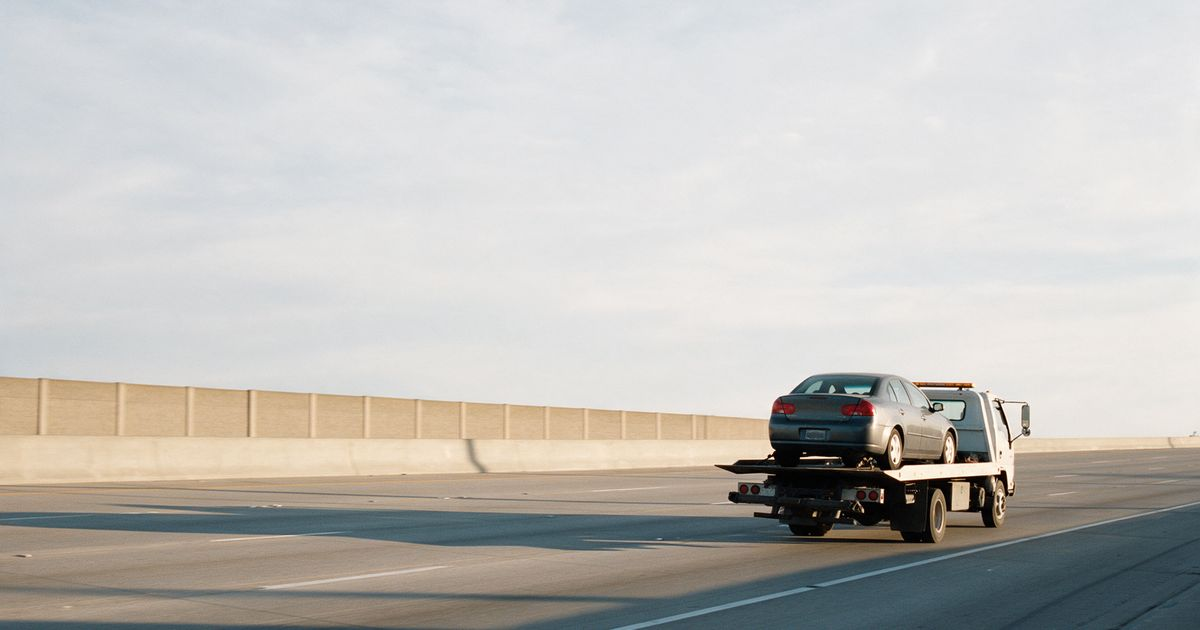
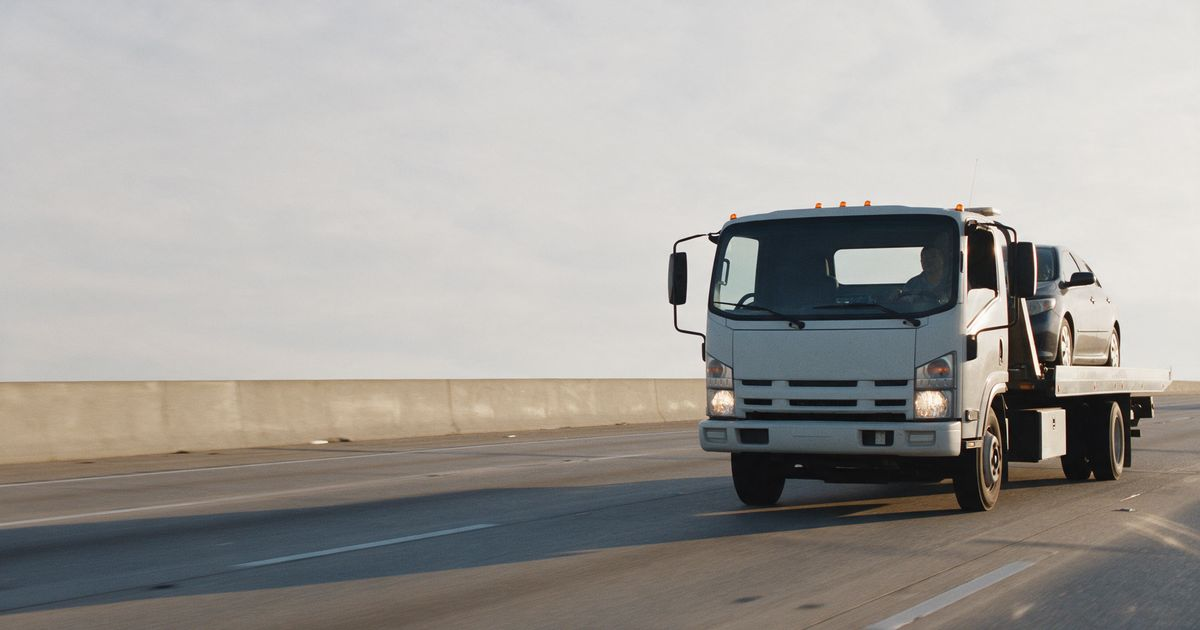
Первый экран: эвакуатор крупнее и едет на зрителя, ползунок едет от А к Б

diff --git a/index.html b/index.html
@@ -17,7 +17,8 @@
 <meta property="og:image:height" content="630">
 <meta name="twitter:card" content="summary_large_image">
 <meta name="theme-color" content="#f4f6f9">
-<link rel="preload" as="image" href="assets/road.webp" fetchpriority="high">
+<link rel="preload" as="image" href="assets/road.webp" media="(min-width: 861px)" fetchpriority="high">
+<link rel="preload" as="image" href="assets/road-m.webp" media="(max-width: 860px)" fetchpriority="high">
 <link rel="preconnect" href="https://fonts.googleapis.com">
 <link rel="preconnect" href="https://fonts.gstatic.com" crossorigin>
 <link href="https://fonts.googleapis.com/css2?family=Golos+Text:wght@600;700;800&family=IBM+Plex+Sans:wght@400;500;600&display=swap" rel="stylesheet">
@@ -76,8 +77,9 @@
   @media (max-width: 860px) { .bar.is-scrolled { background: rgb(244 246 249 / .96); } }
 
   /* ---- hero: одна дорога, оффер на небе, строка маршрута ------------------------ */
+  .hero__back picture { display: contents; }
   .hero__back img { left: 0; top: 0; width: 100%; height: 100%; object-fit: cover; object-position: 50% 50%;
-    transform: scale(calc(1 + var(--v-p, 0) * .06)); transform-origin: 72% 78%; }
+    transform: scale(calc(1 + var(--v-p, 0) * .06)); transform-origin: 72% 62%; }
   .hero__scrim { position: absolute; inset: 0; z-index: 2; pointer-events: none;
     background: radial-gradient(115% 90% at 0% 0%, rgb(244 246 249 / .94) 0%, rgb(244 246 249 / .66) 42%, transparent 72%); }
   .hero__copy { top: clamp(5rem, 13vh, 8.5rem); max-width: min(46rem, 86vw); }
@@ -91,8 +93,9 @@
     padding: var(--v-4) var(--v-5); border-radius: var(--v-radius); background: rgb(255 255 255 / .82); box-shadow: var(--v-e1); }
   .hero__note .v-nums { font-family: var(--v-font-display); font-weight: 700; font-size: var(--v-t-lg); letter-spacing: -.01em; }
   .hero__note .hero__int { color: var(--v-ink); font-size: var(--v-t-sm); }
+  @media (min-width: 861px) and (max-aspect-ratio: 3/2) { .hero__back img { object-position: 66% 50%; } }
   @media (max-width: 860px) {
-    .hero__back img { object-position: 88% 50%; }
+    .hero__back img { object-position: 46% 50%; transform: translateY(-3%) scale(calc(1.12 + var(--v-p, 0) * .06)); transform-origin: 46% 66%; }
     .hero__scrim { background: linear-gradient(to bottom, rgb(244 246 249 / .96) 0%, rgb(244 246 249 / .84) 44%, transparent 72%); }
     .hero__note { display: none; }
     .hero__copy { top: calc(clamp(4.5rem, 11vh, 6.5rem) + env(safe-area-inset-top, 0px)); left: var(--v-gutter); right: var(--v-gutter); max-width: none; }
@@ -238,7 +241,7 @@
     background: var(--v-canvas); color: var(--v-ink); box-shadow: inset 0 0 0 2px var(--v-ink); }
   .route__end--b { right: 0; background: var(--v-accent); color: var(--v-accent-ink); box-shadow: inset 0 0 0 2px var(--v-accent); }
   .route__track { position: absolute; left: 3.6rem; right: 3.6rem; top: 0; height: 100%; }
-  .mini { position: absolute; top: .2rem; left: calc(var(--v-p, 0) * (100% - 4.2rem)); width: 4.2rem; height: 2.4rem; }
+  .mini { position: absolute; top: .2rem; left: calc(var(--v-p, 0) * (100% - 4.2rem)); width: 4.2rem; height: 2.4rem; transform: scaleX(-1); /* кабина впереди, едет от А к Б */ }
   .mini__cab { position: absolute; left: 0; bottom: .5rem; width: 1.05rem; height: .95rem; border-radius: .4rem .1rem 0 .1rem; background: var(--v-surface); box-shadow: inset 0 0 0 2px var(--v-ink); }
   .mini__deck { position: absolute; left: 1.05rem; right: 0; bottom: .5rem; height: .26rem; background: var(--v-ink); }
   .mini__car { position: absolute; left: 1.4rem; right: .15rem; bottom: .76rem; height: .8rem; border-radius: .3rem .35rem .12rem .12rem; background: var(--v-surface); box-shadow: inset 0 0 0 2px var(--v-ink); }
@@ -353,7 +356,10 @@
     <section id="top" data-v-act="pin" data-v-span="2.2" data-v-drift="#f4f6f9" aria-label="Эвакуатор: цена и время подачи до выезда">
       <div data-v-stage>
         <div class="v-layer hero__back">
-          <img src="assets/road.webp" alt="" width="1920" height="1080" fetchpriority="high">
+          <picture>
+            <source media="(max-width: 860px)" srcset="assets/road-m.webp" width="900" height="1200">
+            <img src="assets/road.webp" alt="" width="1920" height="1080" fetchpriority="high">
+          </picture>
         </div>
         <div class="hero__scrim" aria-hidden="true"></div>
 
